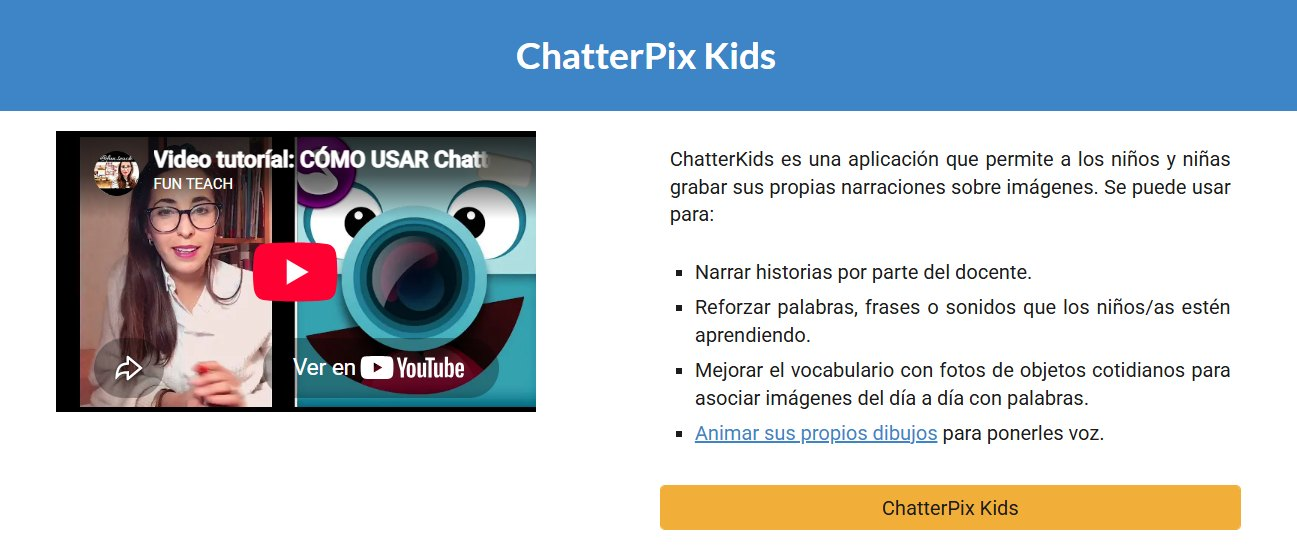
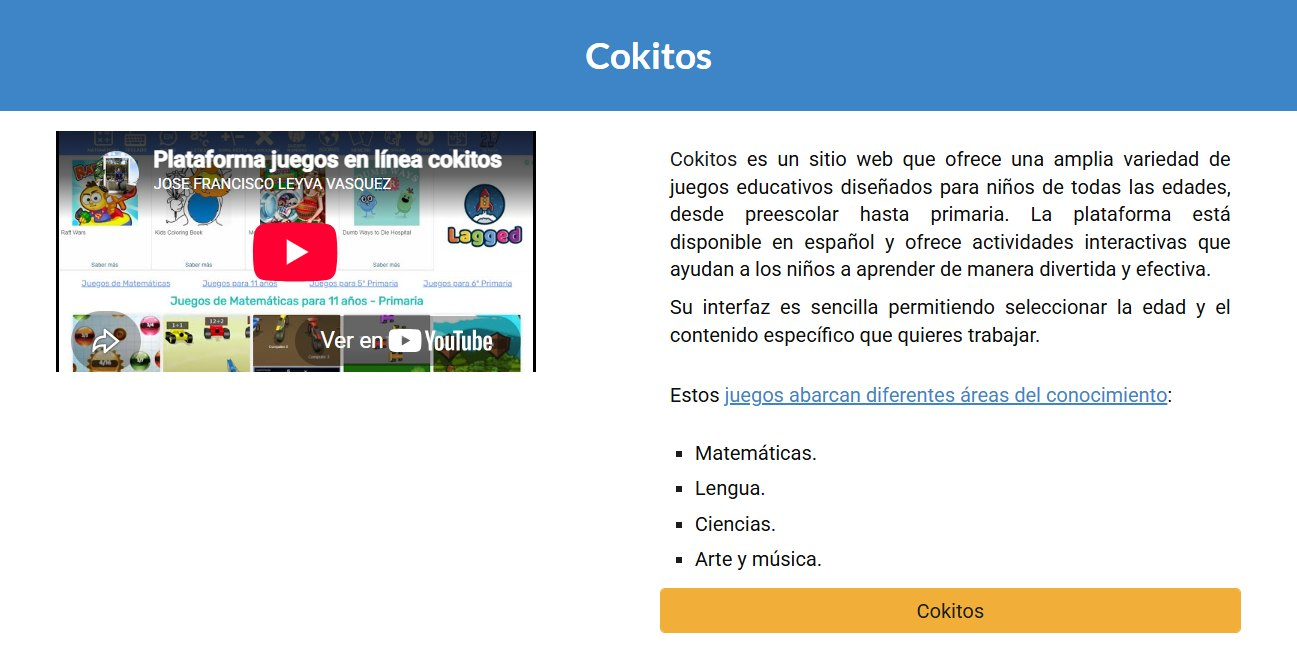
Repositorio: ficha de Infantil cambiada a Cokitos, mismo tamaño que la de StopMotion

diff --git a/proyectos/repositorio-digital/index.html b/proyectos/repositorio-digital/index.html
@@ -56,8 +56,8 @@
 <li><b>Para qué lo hice</b><span>Para que cada docente encontrara rápido qué herramientas podía usar, las comprendiera y supiera en qué nivel aplicarlas.</span></li>
 </ul></section>
  <section class="psec rv"><h2>Así era cada ficha</h2><p class="psub">Dos ejemplos de etapas distintas: una herramienta de Infantil y otra de Secundaria. Pulsa una captura para verla completa.</p><div class="ficha1 two">
-<figure><a href="/assets/proyectos/repositorio-digital/ficha-infantil-2024.jpg" target="_blank" rel="noopener" aria-label="Ver la imagen a tamaño completo: Ficha de ChatterPix Kids en Infantil (5 años): videotutorial de YouTube, qué es la aplicación, cuatro usos en clase y botón a la app"><img src="/assets/proyectos/repositorio-digital/ficha-infantil-2024.jpg" alt="Ficha de ChatterPix Kids en Infantil (5 años): videotutorial de YouTube, qué es la aplicación, cuatro usos en clase y botón a la app" loading="lazy" decoding="async" width="1297" height="550"></a><figcaption><b>Infantil · 5 años · Expresión oral.</b> ChatterPix Kids: videotutorial, qué es, usos en clase y enlace a la app.</figcaption></figure>
-<figure><a href="/assets/proyectos/repositorio-digital/ficha-2024.jpg" target="_blank" rel="noopener" aria-label="Ver la imagen a tamaño completo: Ficha de StopMotion en el repositorio de 2024: videotutorial de YouTube, explicación de la técnica, tres usos en el aula, «Todas las edades» y botón a la app"><img src="/assets/proyectos/repositorio-digital/ficha-2024.jpg" alt="Ficha de StopMotion en el repositorio de 2024: videotutorial de YouTube, explicación de la técnica, tres usos en el aula, «Todas las edades» y botón a la app" loading="lazy" decoding="async" width="1297" height="645"></a><figcaption><b>Secundaria y Bachillerato · Sociales.</b> StopMotion: videotutorial, qué es, usos en el aula, edad y enlace a la app.</figcaption></figure>
+<figure><a href="/assets/proyectos/repositorio-digital/ficha-infantil-2024.jpg?v=2" target="_blank" rel="noopener" aria-label="Ver la imagen a tamaño completo: Ficha de Cokitos en Infantil (5 años): videotutorial de YouTube, qué es la plataforma, las áreas que trabaja (Matemáticas, Lengua, Ciencias, Arte y música) y botón a la web"><img src="/assets/proyectos/repositorio-digital/ficha-infantil-2024.jpg?v=2" alt="Ficha de Cokitos en Infantil (5 años): videotutorial de YouTube, qué es la plataforma, las áreas que trabaja (Matemáticas, Lengua, Ciencias, Arte y música) y botón a la web" loading="lazy" decoding="async" width="1297" height="645"></a><figcaption><b>Infantil · 5 años · Matemáticas.</b> Cokitos: videotutorial, qué es, áreas que trabaja y enlace a la web.</figcaption></figure>
+<figure><a href="/assets/proyectos/repositorio-digital/ficha-2024.jpg?v=2" target="_blank" rel="noopener" aria-label="Ver la imagen a tamaño completo: Ficha de StopMotion en el repositorio de 2024: videotutorial de YouTube, explicación de la técnica, tres usos en el aula, «Todas las edades» y botón a la app"><img src="/assets/proyectos/repositorio-digital/ficha-2024.jpg?v=2" alt="Ficha de StopMotion en el repositorio de 2024: videotutorial de YouTube, explicación de la técnica, tres usos en el aula, «Todas las edades» y botón a la app" loading="lazy" decoding="async" width="1297" height="645"></a><figcaption><b>Secundaria y Bachillerato · Sociales.</b> StopMotion: videotutorial, qué es, usos en el aula, edad y enlace a la app.</figcaption></figure>
 </div></section>
  <section class="psec rv"><h2>Lo que puedo afirmar</h2>
 <div class="status four">

diff --git a/_build/data.py b/_build/data.py
@@ -331,8 +331,8 @@ P.append(dict(
              intro='<p class="psub">Dos ejemplos de etapas distintas: una herramienta de Infantil y otra de Secundaria. Pulsa una captura para verla completa.</p>',
              cols=1, figs=[],
              after="""<div class="ficha1 two">
-FIG:/assets/proyectos/repositorio-digital/ficha-infantil-2024.jpg|Ficha de ChatterPix Kids en Infantil (5 años): videotutorial de YouTube, qué es la aplicación, cuatro usos en clase y botón a la app|<b>Infantil · 5 años · Expresión oral.</b> ChatterPix Kids: videotutorial, qué es, usos en clase y enlace a la app.
-FIG:/assets/proyectos/repositorio-digital/ficha-2024.jpg|Ficha de StopMotion en el repositorio de 2024: videotutorial de YouTube, explicación de la técnica, tres usos en el aula, «Todas las edades» y botón a la app|<b>Secundaria y Bachillerato · Sociales.</b> StopMotion: videotutorial, qué es, usos en el aula, edad y enlace a la app.
+FIG:/assets/proyectos/repositorio-digital/ficha-infantil-2024.jpg?v=2|Ficha de Cokitos en Infantil (5 años): videotutorial de YouTube, qué es la plataforma, las áreas que trabaja (Matemáticas, Lengua, Ciencias, Arte y música) y botón a la web|<b>Infantil · 5 años · Matemáticas.</b> Cokitos: videotutorial, qué es, áreas que trabaja y enlace a la web.
+FIG:/assets/proyectos/repositorio-digital/ficha-2024.jpg?v=2|Ficha de StopMotion en el repositorio de 2024: videotutorial de YouTube, explicación de la técnica, tres usos en el aula, «Todas las edades» y botón a la app|<b>Secundaria y Bachillerato · Sociales.</b> StopMotion: videotutorial, qué es, usos en el aula, edad y enlace a la app.
 </div>"""),
         ("Lo que puedo afirmar", """
 <div class="status four">
